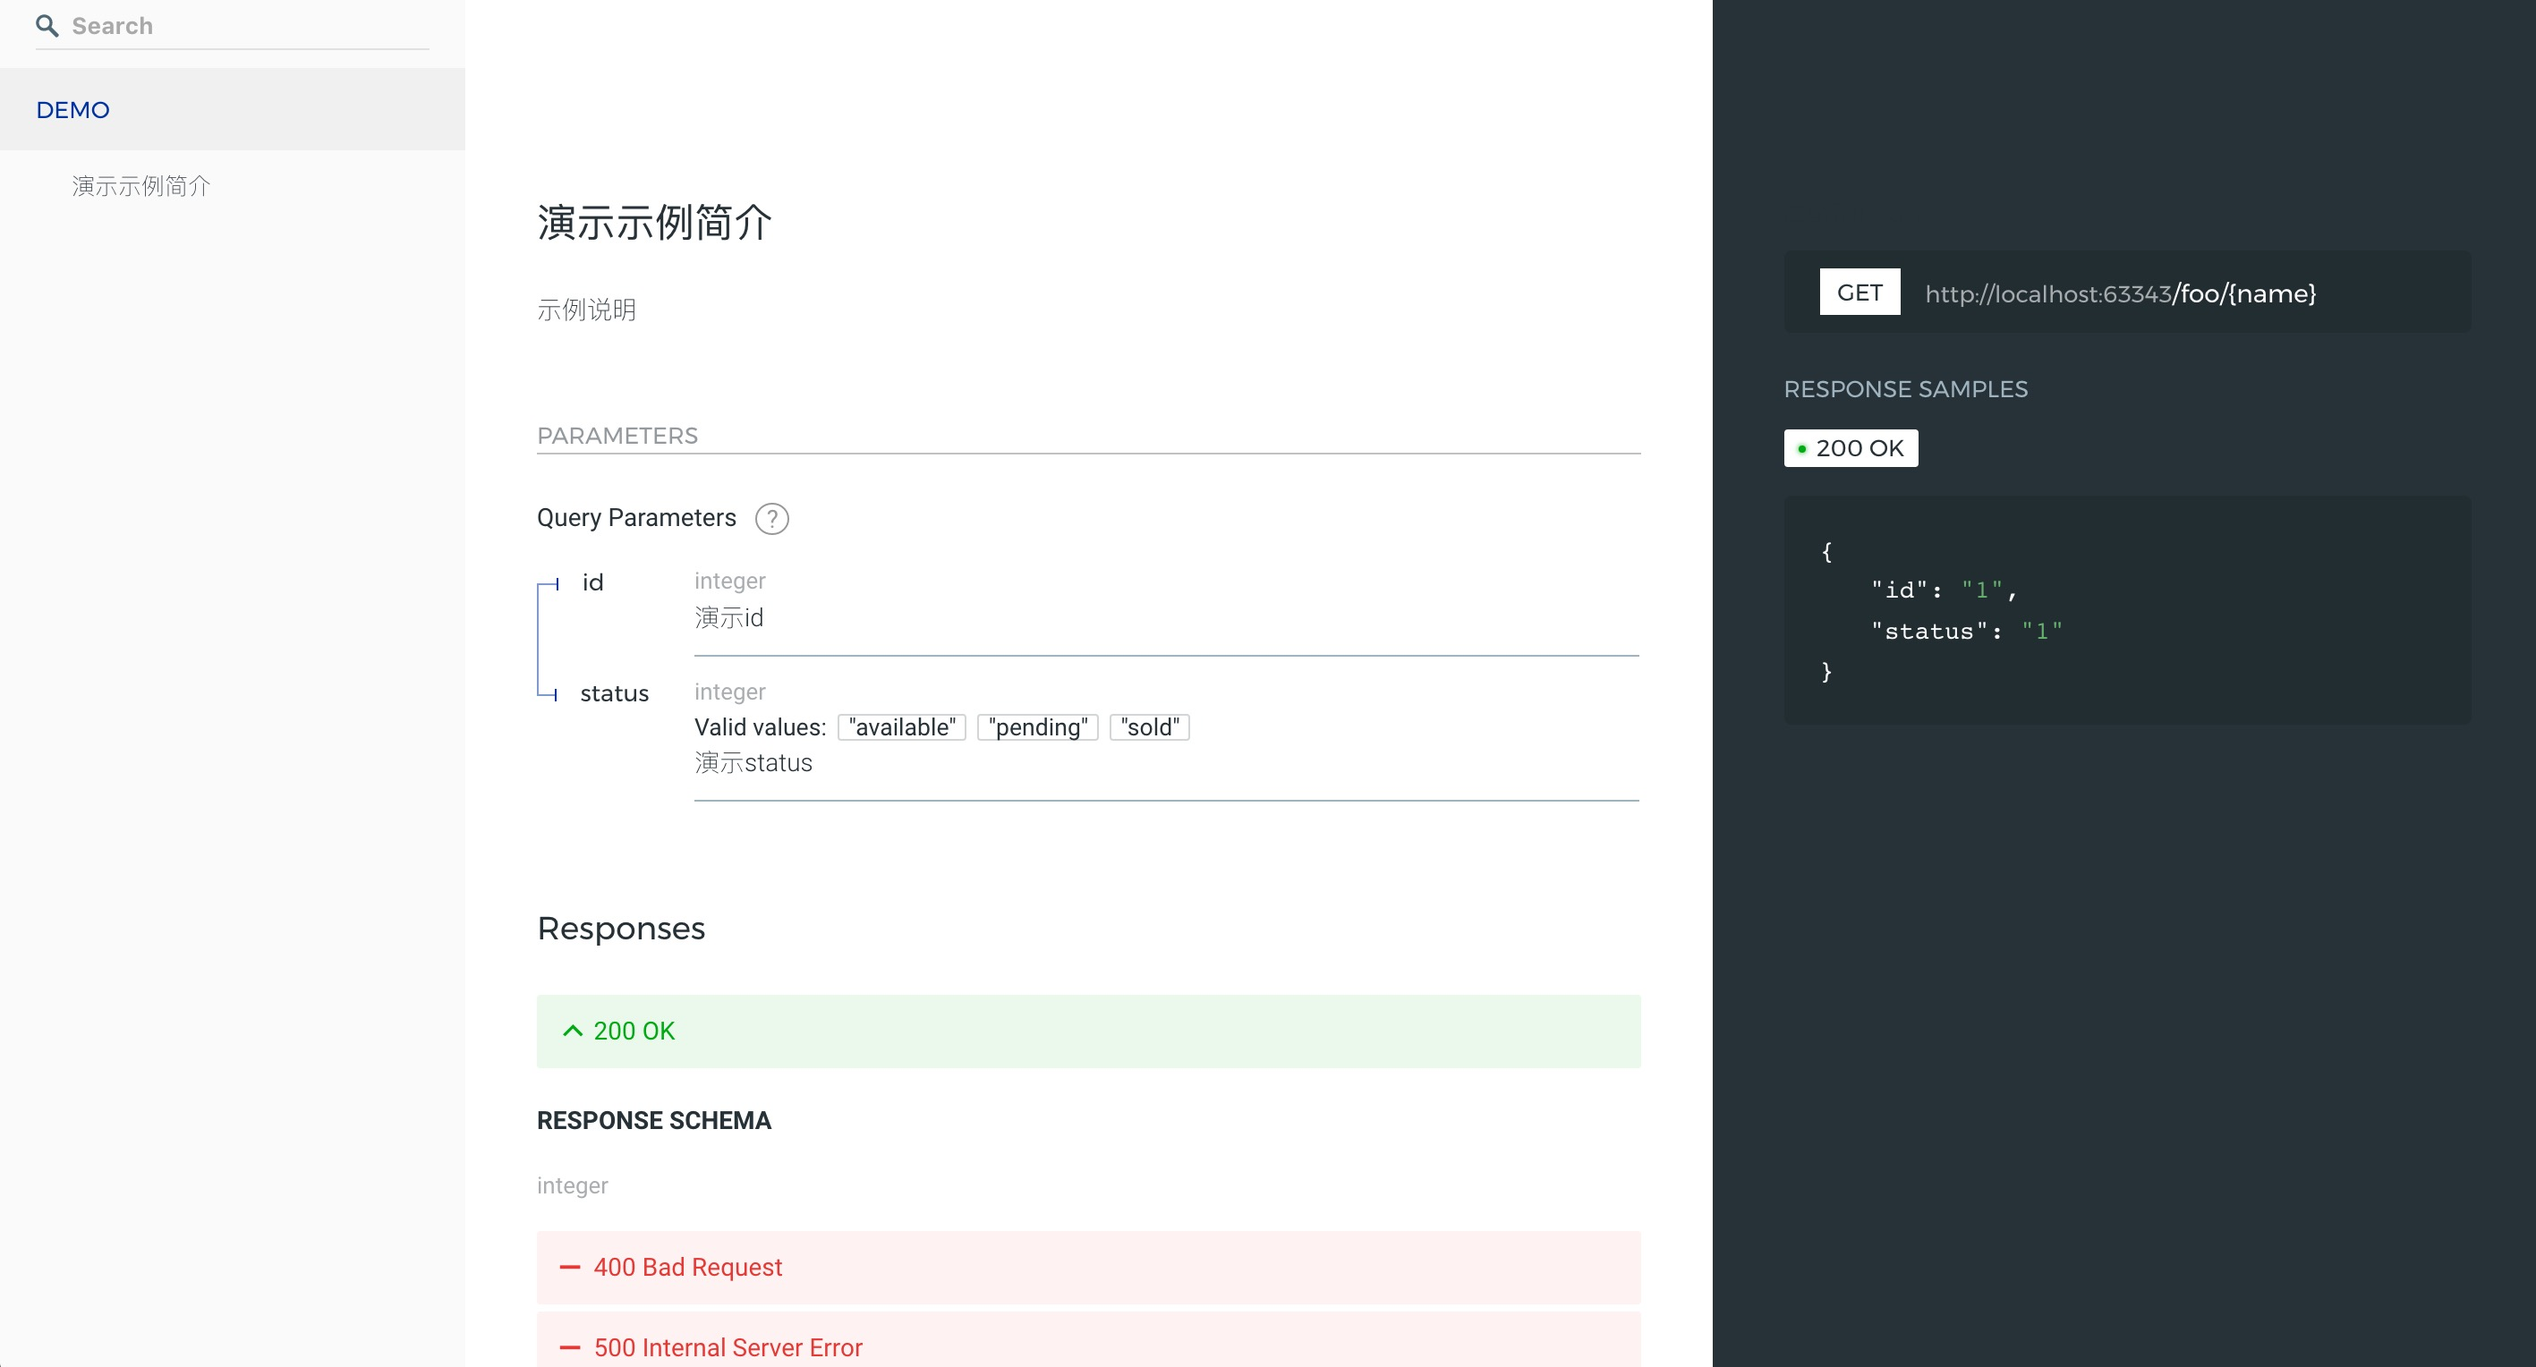
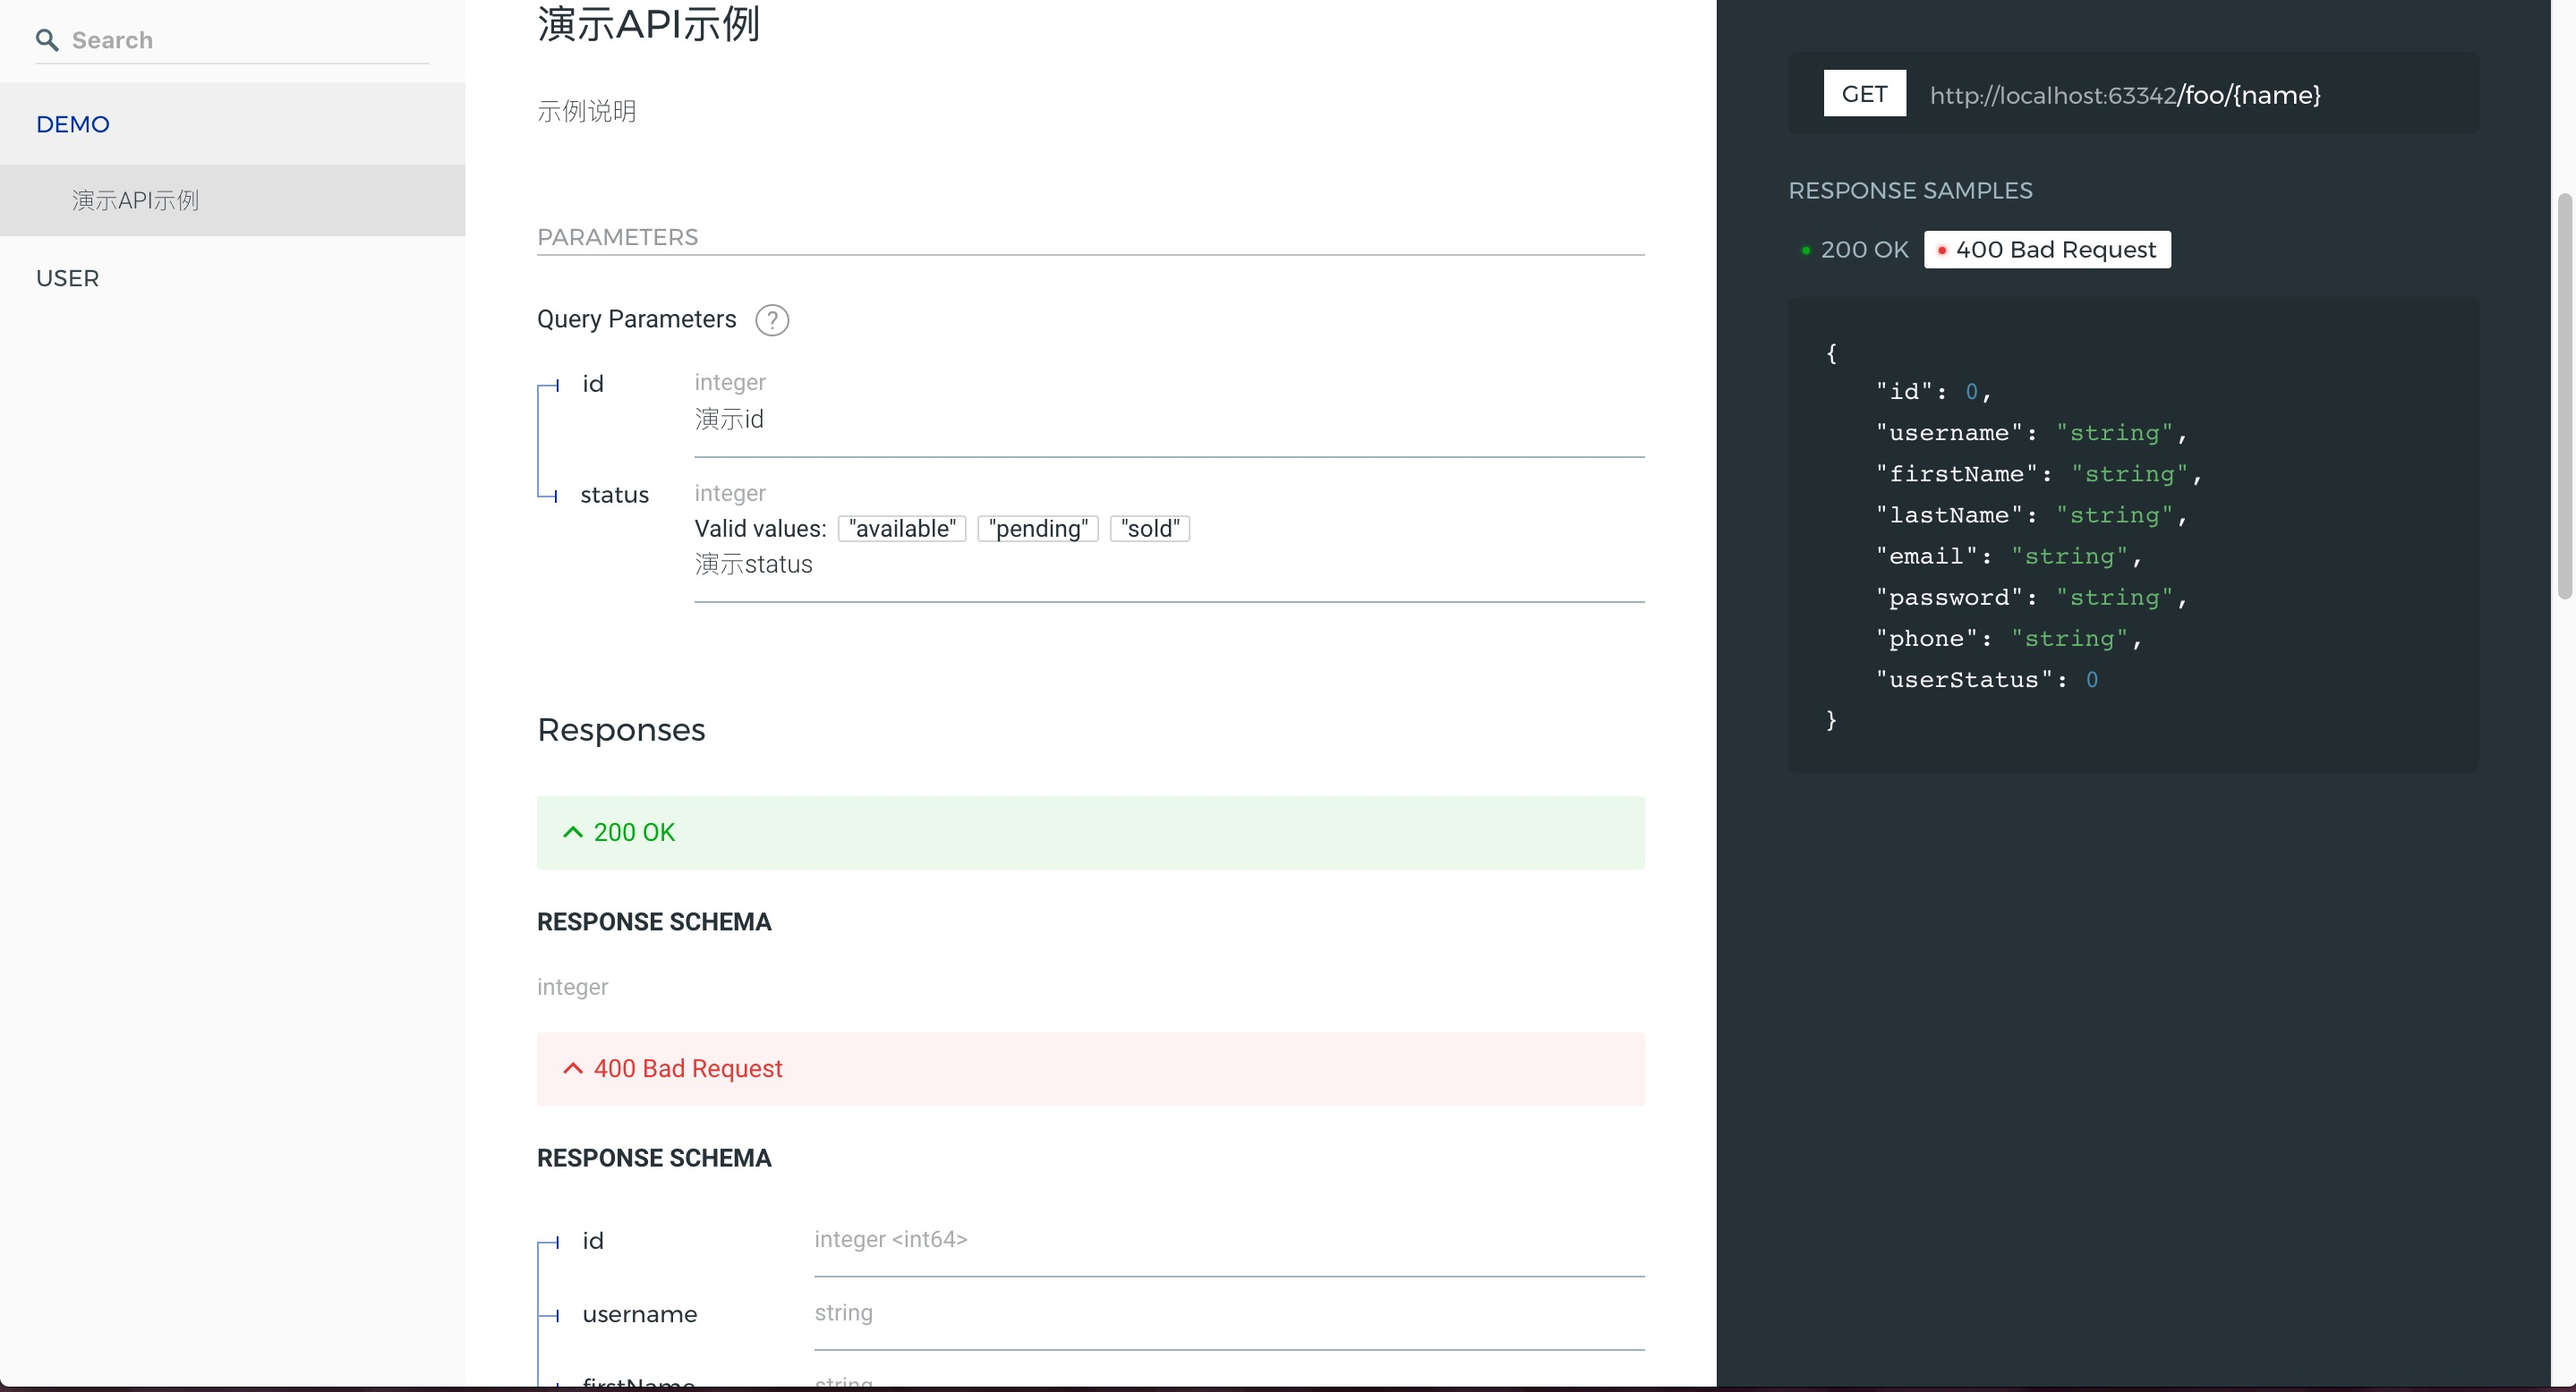
update doc

diff --git a/tests/src/Document/User.php b/tests/src/Document/User.php
@@ -1,0 +1,66 @@
+<?php
+/**
+ * @author    jan huang <bboyjanhuang@gmail.com>
+ * @copyright 2016
+ *
+ * @link      https://www.github.com/janhuang
+ * @link      http://www.fast-d.cn/
+ */
+
+namespace Document;
+
+
+/**
+ * @SWG\Definition(type="object", @SWG\Xml(name="User"))
+ */
+class User
+{
+    /**
+     * @SWG\Property(format="int64")
+     * @var int
+     */
+    public $id;
+
+    /**
+     * @SWG\Property()
+     * @var string
+     */
+    public $username;
+
+    /**
+     * @SWG\Property
+     * @var string
+     */
+    public $firstName;
+
+    /**
+     * @SWG\Property()
+     * @var string
+     */
+    public $lastName;
+
+    /**
+     * @var string
+     * @SWG\Property()
+     */
+    public $email;
+
+    /**
+     * @var string
+     * @SWG\Property()
+     */
+    public $password;
+
+    /**
+     * @var string
+     * @SWG\Property()
+     */
+    public $phone;
+
+    /**
+     * User Status
+     * @var int
+     * @SWG\Property(format="int32")
+     */
+    public $userStatus;
+}

diff --git a/tests/src/Http/Controller/UserController.php b/tests/src/Http/Controller/UserController.php
@@ -16,18 +16,16 @@ use FastD\Middleware\Delegate;
 
 /**
  *
- * @SWG\Info(title="演示API", version="0.1")
- *
  * Class IndexController
  * @package Http\Controller
  */
-class IndexController
+class UserController
 {
     /**
      * @SWG\Get(
-     *   path="/foo/{name}",
+     *   path="/user/{name}",
      *   summary="演示API示例",
-     *   tags={"demo"},
+     *   tags={"user"},
      *   description="示例说明",
      *   consumes={"application/json", "application/xml"},
      *   produces={"application/json", "application/xml"},
@@ -66,7 +64,7 @@ class IndexController
      *       @SWG\Property(property="error_message", type="string")
      *     )
      *   ),
-     *   @SWG\Response(response=400, description="Bad Request", @SWG\Schema(ref="#/definitions/User")),
+     *   @SWG\Response(response=400, description="Bad Request"),
      *   @SWG\Response(response=500, description="Internal Server Error")
      * )
      *

diff --git a/src/Console/Document.php b/src/Console/Document.php
@@ -45,7 +45,7 @@ class Document extends Command
     protected function createApiDoc(OutputInterface $output)
     {
         $appName = config()->get('name');
-        $dir = app()->getAppPath() . '/src/Http/Controller';
+        $dir = app()->getAppPath() . '/src';
         $indexHtml = app()->getAppPath() . "/web/{$appName}.html";
         $apiDataFile = app()->getAppPath() . "/web/{$appName}.json";
 
